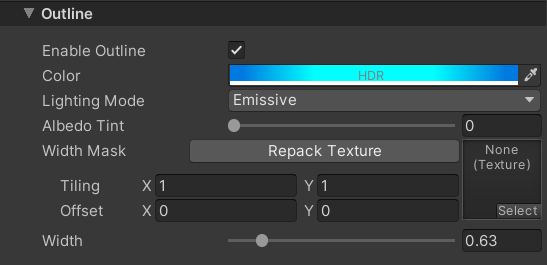
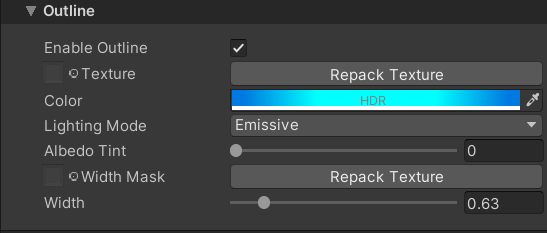
added outline Texture slot and updated inspector preview

diff --git a/docs/toon.md b/docs/toon.md
@@ -81,7 +81,8 @@ This documentation is broken up into modules that correspond to the foldouts in 
 </p>
 
 - Enable Outline: Enables the outline effect
-- Color: Controls the tint of the outline
+- Texture: Controls the outline color
+- Color: Controls the tint of the outline texture
 - Lighting Mode: Controls how the outline is lit. Defaults to Lit
   - Lit: Uses environment lighting to light the outline
   - Emissive: Uses the outline color directly
